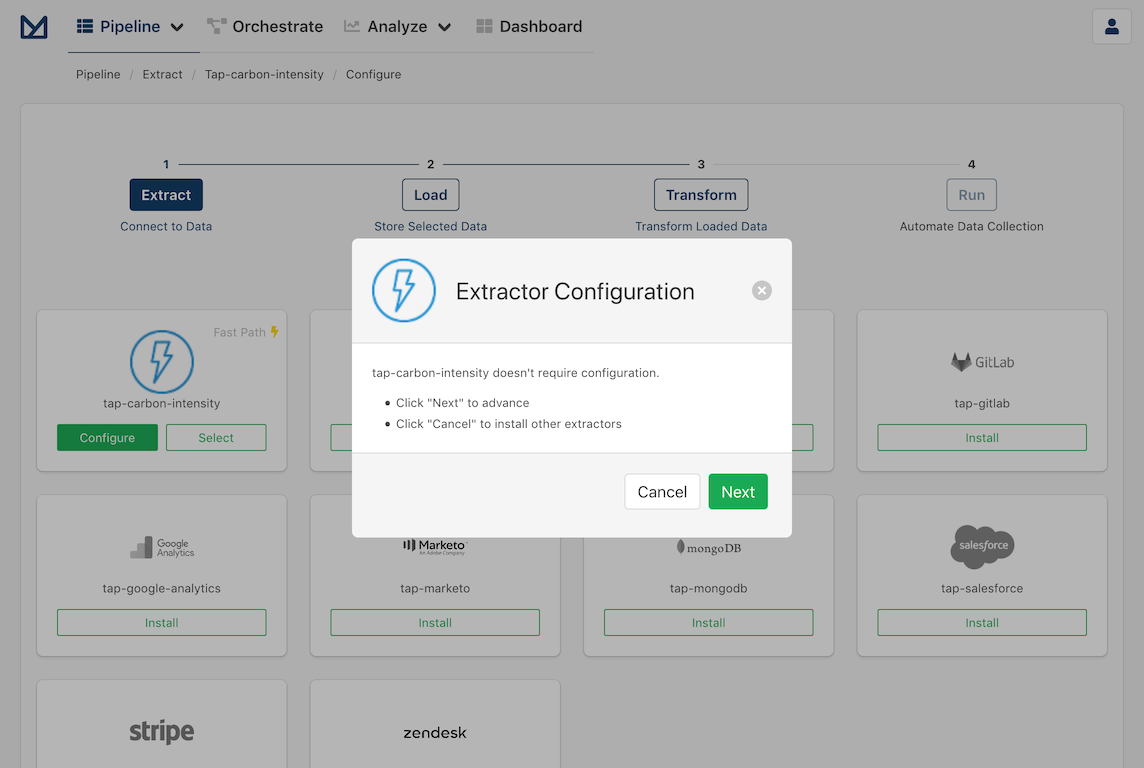
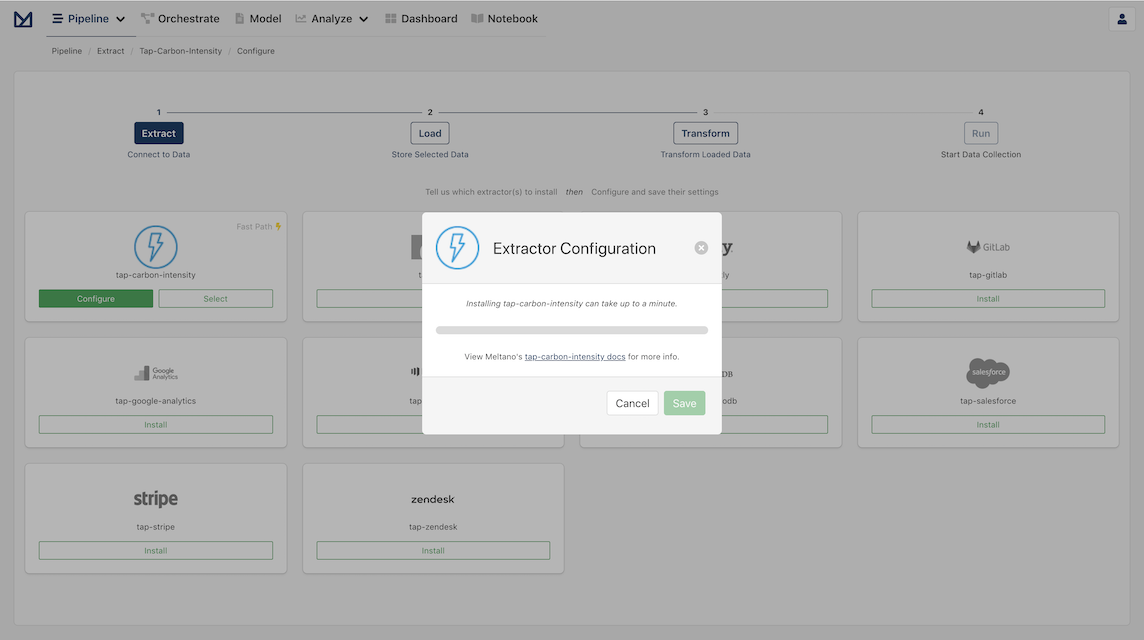
Add info about Job Logs to Meltano Documentation

diff --git a/docs/src/docs/getting-started.md b/docs/src/docs/getting-started.md
@@ -12,11 +12,11 @@ You should see now see the Extractors page, which contains various options for c
 
 ![Meltano UI with all extractors not installed initial loading screen](/images/getting-started-guide/gsg-01.png)
 
-For this guide, we will be following the "Fast Path" to get you up and running as quickly as possible. So let's install `tap-carbon-intensity` by clicking on the `Install` button inside its card. Once it is complete, you should be greeted with the following modal:
+For this guide, we will be following the "Fast Path" to get you up and running as quickly as possible. So let's install `tap-carbon-intensity` by clicking on the `Install` button inside its card. While an Extractor is installed, you are presented with the following modal:
 
-![Modal confirmation that tap-carbon-intensity is installed, doesn't require configuration and allow you to progress to the next step](/images/getting-started-guide/gsg-02.png)
+![Modal Information about tap-carbon-intensity being installed, doesn't require configuration and will progress to the next step when the installation is done](/images/getting-started-guide/gsg-02.png)
 
-Click `Next` to move on to the next step: "Entity Selection."
+The `tap-carbon-intensity` Extractor does not require any configuration (like a username or password). Once the installation is complete, you will progress to the next step: "Entity Selection."
 
 ## Select entities
 
@@ -68,13 +68,17 @@ In the current form, you will see:
 - Whether the **transform** step should be applied, which should be `skip`
 - The **interval** at which the pipeline should be run, which is set by default to be `@once`
 
-All we need to do is click `Save` to start our new pipeline! You should see a spinning icon as well as a badge next to the "Pipeline" navigation element in the header.
+All we need to do is click `Save` to start our new pipeline! The pipeline's log opens automatically and you can check the pipeline running and what Meltano does behind the scenes to extract and load the data. You should see a spinning icon that indicates that the pipeline is not completed:
 
-![Screenshot of pipeline being run](/images/getting-started-guide/gsg-08.png)
+![Screenshot of run log of a pipeline being run](/images/getting-started-guide/gsg-08.png)
 
-Once it's complete, these indicators will disappear and you should see:
+Once it's complete, the indicator will disappear and you should be able to see the final results of the extraction:
 
-![Screenshot of complete pipeline run](/images/getting-started-guide/gsg-09.png)
+![Screenshot of run log of a completed pipeline](/images/getting-started-guide/gsg-09.png)
+
+You can click the `Analyze` button or close the log and go back to the Pipelines page. In the Pipelines page, you can check the log of any past pipeline by clicking the `Log` button next to it: 
+
+![Screenshot of complete pipeline run](/images/getting-started-guide/gsg-09b.png)
 
 Congratulations! Now that you have connected a data source, configured a target database, and run a successful pipeline for the dataset, we are now ready to analyze the data!
 

diff --git a/docs/src/docs/architecture.md b/docs/src/docs/architecture.md
@@ -309,6 +309,26 @@ For now, Meltano will try to implement concurrent taps when possible.
 
 Every time `meltano elt ...` runs, Meltano will keep track of the job and its success state in a log.
 
+In Meltano UI, you can visit the Pipelines page and check the log of any past pipeline by clicking the `Log` button next to it. You can check the logs generated for running pipelines by clicking the `Running...` button: 
+
+![Screenshot of pipelines in the Schedules page](/images/getting-started-guide/gsg-09c.png)
+
+For example, the following screenshot shows the log of a completed pipeline:
+
+![Screenshot of run log of a completed pipeline](/images/getting-started-guide/gsg-09.png)
+
+All the output generated by `meltano elt ...` is logged in `.meltano/run/logs/{job_id}/elt_{timestamp}.log`
+
+Where the `job_id` can be one of the following:
+
+- The name of the pipeline created by Meltano UI; e.g. `pipeline-1571745262740`.
+- The `job_id` provided to the `meltano elt ... [--job_id TEXT]` CLI command.
+- It is autogenerated using the current date and time if it is not provided when the `meltano elt` CLI command runs.
+
+::: info
+Meltano keeps the logs for the 10 most recent elt runs with the same `job_id`. The number of logs kept can also be set by using the environment variable `$MELTANO_MAX_LOGS_PER_JOB_ID`.
+:::
+
 ### How ELT Commands Fetch Dependencies
 
 When you run ELT commands on a tap or target, this is the general process for fetching dependencies:
